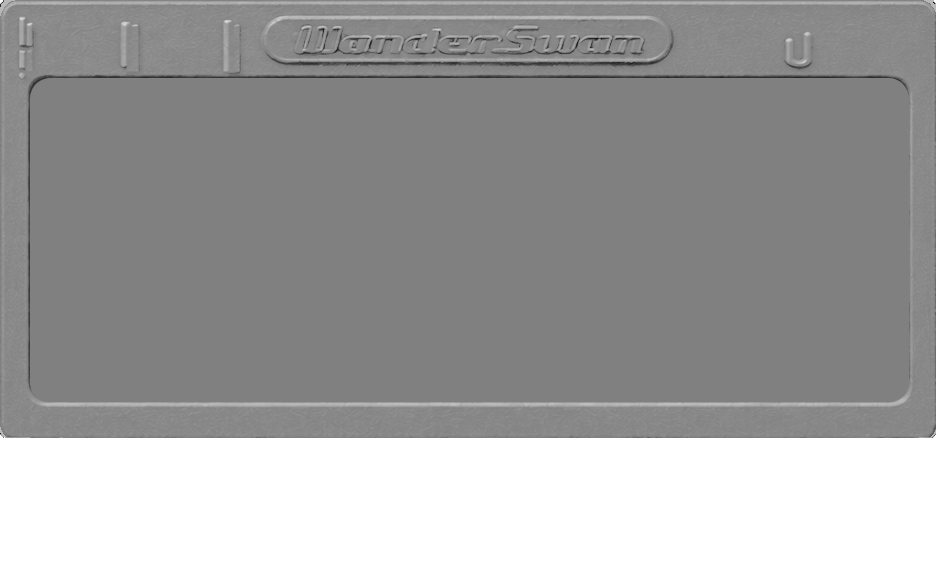
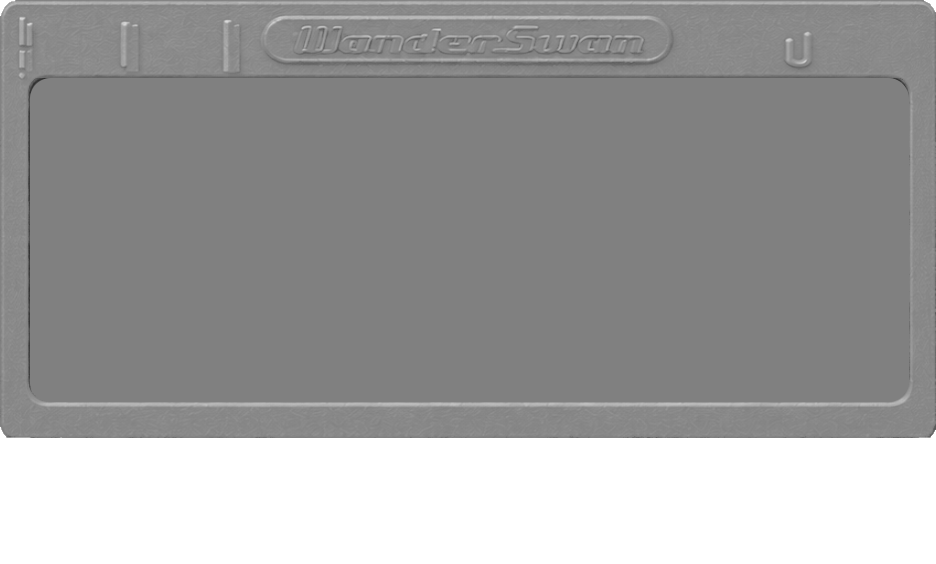
3.0 carts: Pokemon mini clear by default, label edge plastic and well shade follow the shell, tinted WS/Lynx/Pokemon mini decals, clean 3.0 shell edges and corners

diff --git a/crates/slot-ui/src/cart.rs b/crates/slot-ui/src/cart.rs
@@ -518,7 +518,9 @@ pub fn cart_face_with(cart: &Cart, art: Option<Vec<u8>>) -> CartFace {
         Some(rgba) => rgba,
         None => generated_label(&s, &label_text(cart)),
     };
-    let bare = scanned.then(|| face.rgba.clone());
+    // The plastic as a cart with no label has it, for the edges laid back
+    // over a real label.
+    let bare = scanned.then(|| shell_face_of(&s, &shell_for(cart), true).rgba);
     paste_label(&s, &mut face, &label);
     if let Body::Home(_) = s.body {
         shade_label_well(&s, &mut face);
@@ -609,12 +611,17 @@ pub fn handwritten_label_art(cart: &Cart) -> (Vec<u8>, u32, u32) {
 fn shade_label_well(s: &Spec, face: &mut CartFace) {
     let (lx, ly, lw, lh) = s.label;
     let k = density::scale();
-    let (x0, y0, x1, y1) = (px(lx), px(ly), px(lx + lw), px(ly + lh));
+    let (x0, y0, x1, y1) = (px(lx), px(ly), px(lx) + px(lw), px(ly) + px(lh));
     let fw = px(s.w);
+    // A shaped well (the Pokemon mini's curved foot, the Game Gear's round
+    // corners): no shade where its plastic rises over the label's box.
+    let shaped = match s.body { Body::Home(m) => Some(m), _ => None };
     for y in y0..y1.min(px(s.h)) {
         for x in x0..x1.min(fw) {
             let d = ((x - x0).min(y - y0) as f32) / k;
-            let shade = 0.28 * (1.0 - d / 6.0).max(0.0);
+            let outside = shaped.map_or(0.0, |m| label_frame(m,
+                (x - x0) as f32 / k, (y - y0) as f32 / k, lw as f32, lh as f32));
+            let shade = 0.28 * (1.0 - d / 6.0).max(0.0) * (1.0 - outside);
             if shade <= 0.0 {
                 continue;
             }
@@ -658,7 +665,10 @@ fn label_frame(m: HomeMould, x: f32, y: f32, w: f32, h: f32) -> f32 {
 fn frame_over_label(s: &Spec, m: HomeMould, face: &mut CartFace, bare: &[u8]) {
     let (lx, ly, lw, lh) = s.label;
     let k = density::scale();
-    let (x0, y0, x1, y1) = (px(lx), px(ly), px(lx + lw), px(ly + lh));
+    // The very texels paste_label covered, so no row of the label is left
+    // out at the bottom or the right.
+    let (x0, y0) = (px(lx), px(ly));
+    let (x1, y1) = (x0 + px(lw), y0 + px(lh));
     let (fw, fh) = (px(s.w), px(s.h));
     let (w, h) = (lw as f32, lh as f32);
     for y in y0..y1.min(fh) {
@@ -683,19 +693,15 @@ fn frame_over_label(s: &Spec, m: HomeMould, face: &mut CartFace, bare: &[u8]) {
                 }
                 continue;
             }
-            // The plastic: what lies just past the well's nearest side.
-            let (dl, dr, dt, db) = (x - x0, x1 - 1 - x, y - y0, y1 - 1 - y);
-            let reach = 2 * k.ceil() as u32 + 1;
-            let (sx, sy) = match dl.min(dr).min(dt).min(db) {
-                d if d == db && m == HomeMould::PokemonMini => (x, (y1 + reach).min(fh - 1)),
-                d if d == dl => (x0.saturating_sub(reach), y),
-                d if d == dr => ((x1 + reach).min(fw - 1), y),
-                d if d == dt => (x, y0.saturating_sub(reach)),
-                _ => (x, (y1 + reach).min(fh - 1)),
-            };
-            let j = ((sy * fw + sx) * 4) as usize;
+            // The plastic itself at this very texel, as the cart without a
+            // label has it (colour, flecks, frost, clearness: Siham
+            // 2026-11-21), laid over the label: clear plastic shows the
+            // label through it.
+            let a = bare[i + 3] as f32 / 255.0;
             for c in 0..3 {
-                face.rgba[i + c] = (bare[j + c] as f32 * cover + face.rgba[i + c] as f32 * (1.0 - cover)).round() as u8;
+                let label = face.rgba[i + c] as f32;
+                let over = bare[i + c] as f32 * a + label * (1.0 - a);
+                face.rgba[i + c] = (over * cover + label * (1.0 - cover)).round() as u8;
             }
         }
     }
@@ -848,7 +854,7 @@ fn shell_face_of(s: &Spec, shell: &Shell, bare: bool) -> CartFace {
     }
     if let Mould::Home(m) = s.mould {
         if let Some(decal) = home::dense_decal(m) {
-            blend_over(&mut rgba, &decal);
+            blend_over(&mut rgba, &tinted_decal(m, &decal, shell.colour));
         }
     }
     if shell.finish.has_flecks() {
@@ -874,6 +880,48 @@ fn shell_face_of(s: &Spec, shell: &Shell, bare: bool) -> CartFace {
         w: s.w,
         h: s.h,
     }
+}
+
+/// The parts of a mould's decal that are its plastic take the cart's colour
+/// as the shell does (Siham 2026-11-21): the WonderSwan's guide tabs beside
+/// its contacts, the Lynx's lip over them, the Pokemon mini's frosted cap.
+/// Boards, contacts and printing keep their own colours.
+fn tinted_decal(m: HomeMould, decal: &[u8], colour: [u8; 3]) -> std::borrow::Cow<'_, [u8]> {
+    // Grey plastic of the decal: its usual grey and where the shell's mid
+    // grey sits for it (the tabs a little lighter than the body, the lip a
+    // little darker).
+    let (grey, at) = match m {
+        HomeMould::WonderSwan | HomeMould::WonderSwanColor => (172i32, 140i32),
+        HomeMould::Lynx => (47, 100),
+        HomeMould::PokemonMini => {
+            let mut out = decal.to_vec();
+            for px in out.chunks_exact_mut(4) {
+                if px[3] == 0 { continue; }
+                let l = (px[0] as i32 + px[1] as i32 + px[2] as i32) / 3;
+                let sat = px[0].max(px[1]).max(px[2]) - px[0].min(px[1]).min(px[2]);
+                // The screws' dark holes stay as they are.
+                if l < 150 && sat < 18 { continue; }
+                let base = (128 + (l - 225)).clamp(0, 255) as u8;
+                for c in 0..3 {
+                    // Frosted: the plastic's colour, most of the way to white.
+                    let tinted = overlay(base, colour[c]) as u32;
+                    px[c] = ((tinted * 40 + 255 * 60 + 50) / 100) as u8;
+                }
+            }
+            return std::borrow::Cow::Owned(out);
+        }
+        _ => return std::borrow::Cow::Borrowed(decal),
+    };
+    let mut out = decal.to_vec();
+    for px in out.chunks_exact_mut(4) {
+        if px[3] == 0 { continue; }
+        let sat = px[0].max(px[1]).max(px[2]) - px[0].min(px[1]).min(px[2]);
+        if sat >= 18 { continue; }
+        let l = (px[0] as i32 + px[1] as i32 + px[2] as i32) / 3;
+        let base = (at + (l - grey) * 4 / 5).clamp(0, 255) as u8;
+        for c in 0..3 { px[c] = overlay(base, colour[c]); }
+    }
+    std::borrow::Cow::Owned(out)
 }
 
 fn fleck(x: u32, y: u32) -> bool {

diff --git a/crates/slot-ui/src/home.rs b/crates/slot-ui/src/home.rs
@@ -236,7 +236,14 @@ pub fn home_shell(platform: Platform, stem: &str, region: &str, maker: &str) -> 
         Platform::Gba | Platform::Gb | Platform::Gbc => return None,
     };
     let (mould, colour, glitter) = home_pick(system, stem, region, maker);
-    let finish = if glitter { ShellFinish::Glitter } else { ShellFinish::Solid };
+    // Every Pokemon mini cart is clear plastic, its cap frosted.
+    let finish = if glitter {
+        ShellFinish::Glitter
+    } else if system == HomeSystem::PokemonMini {
+        ShellFinish::Clear
+    } else {
+        ShellFinish::Solid
+    };
     Some(ShellChoice { outline: mould.outline(), colour, finish })
 }
 
